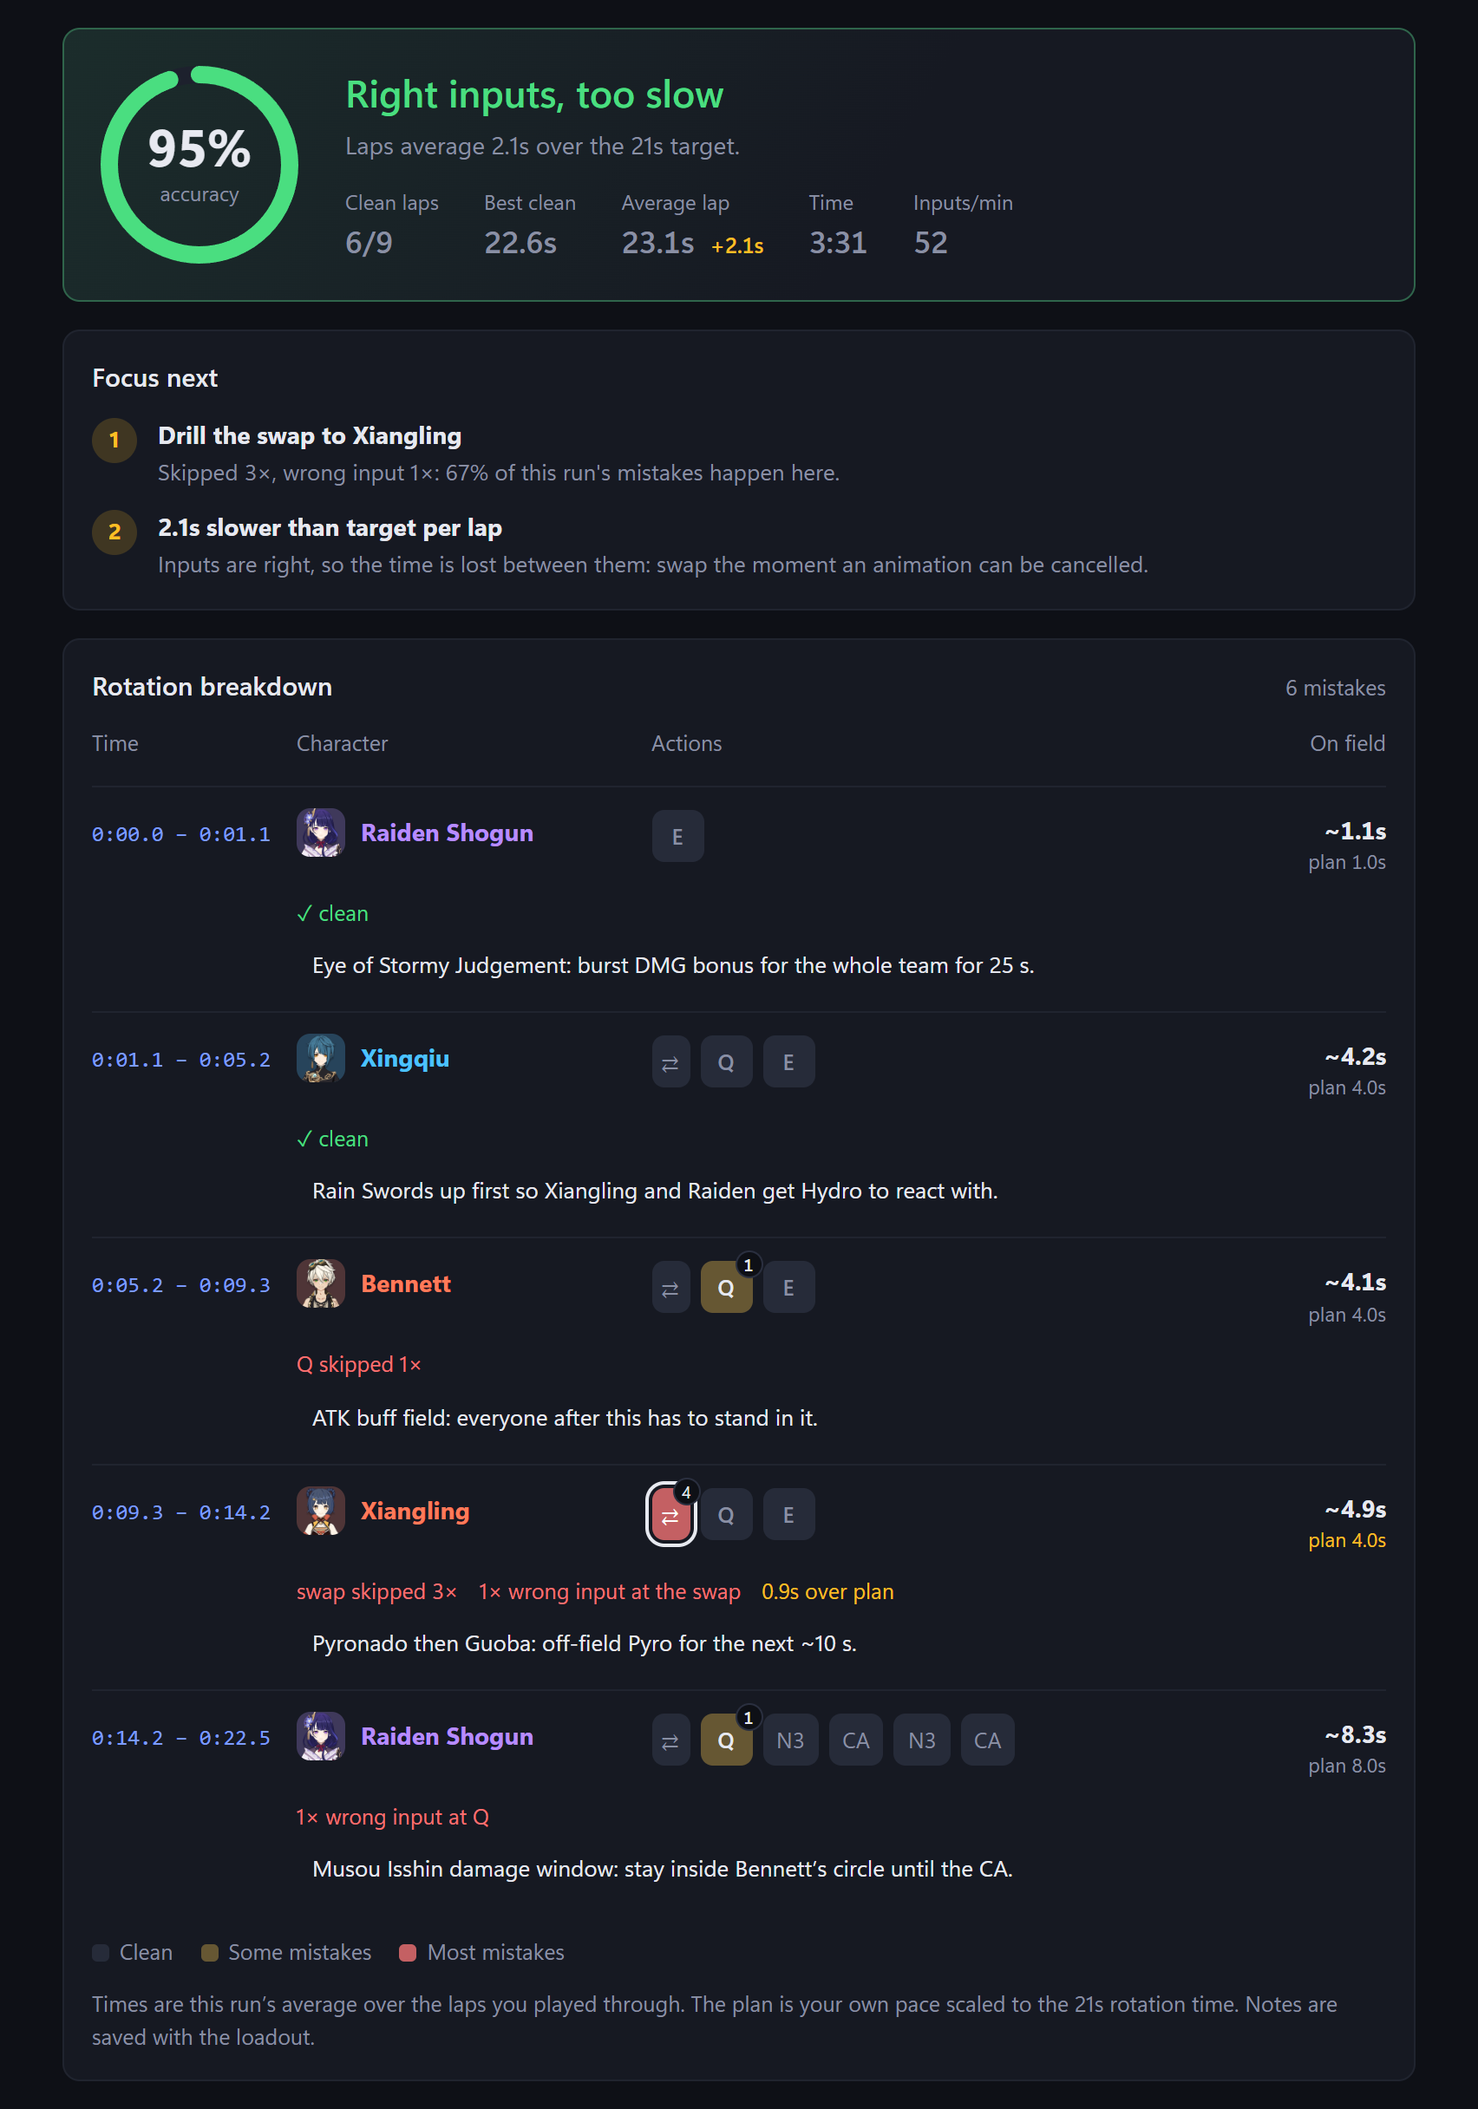
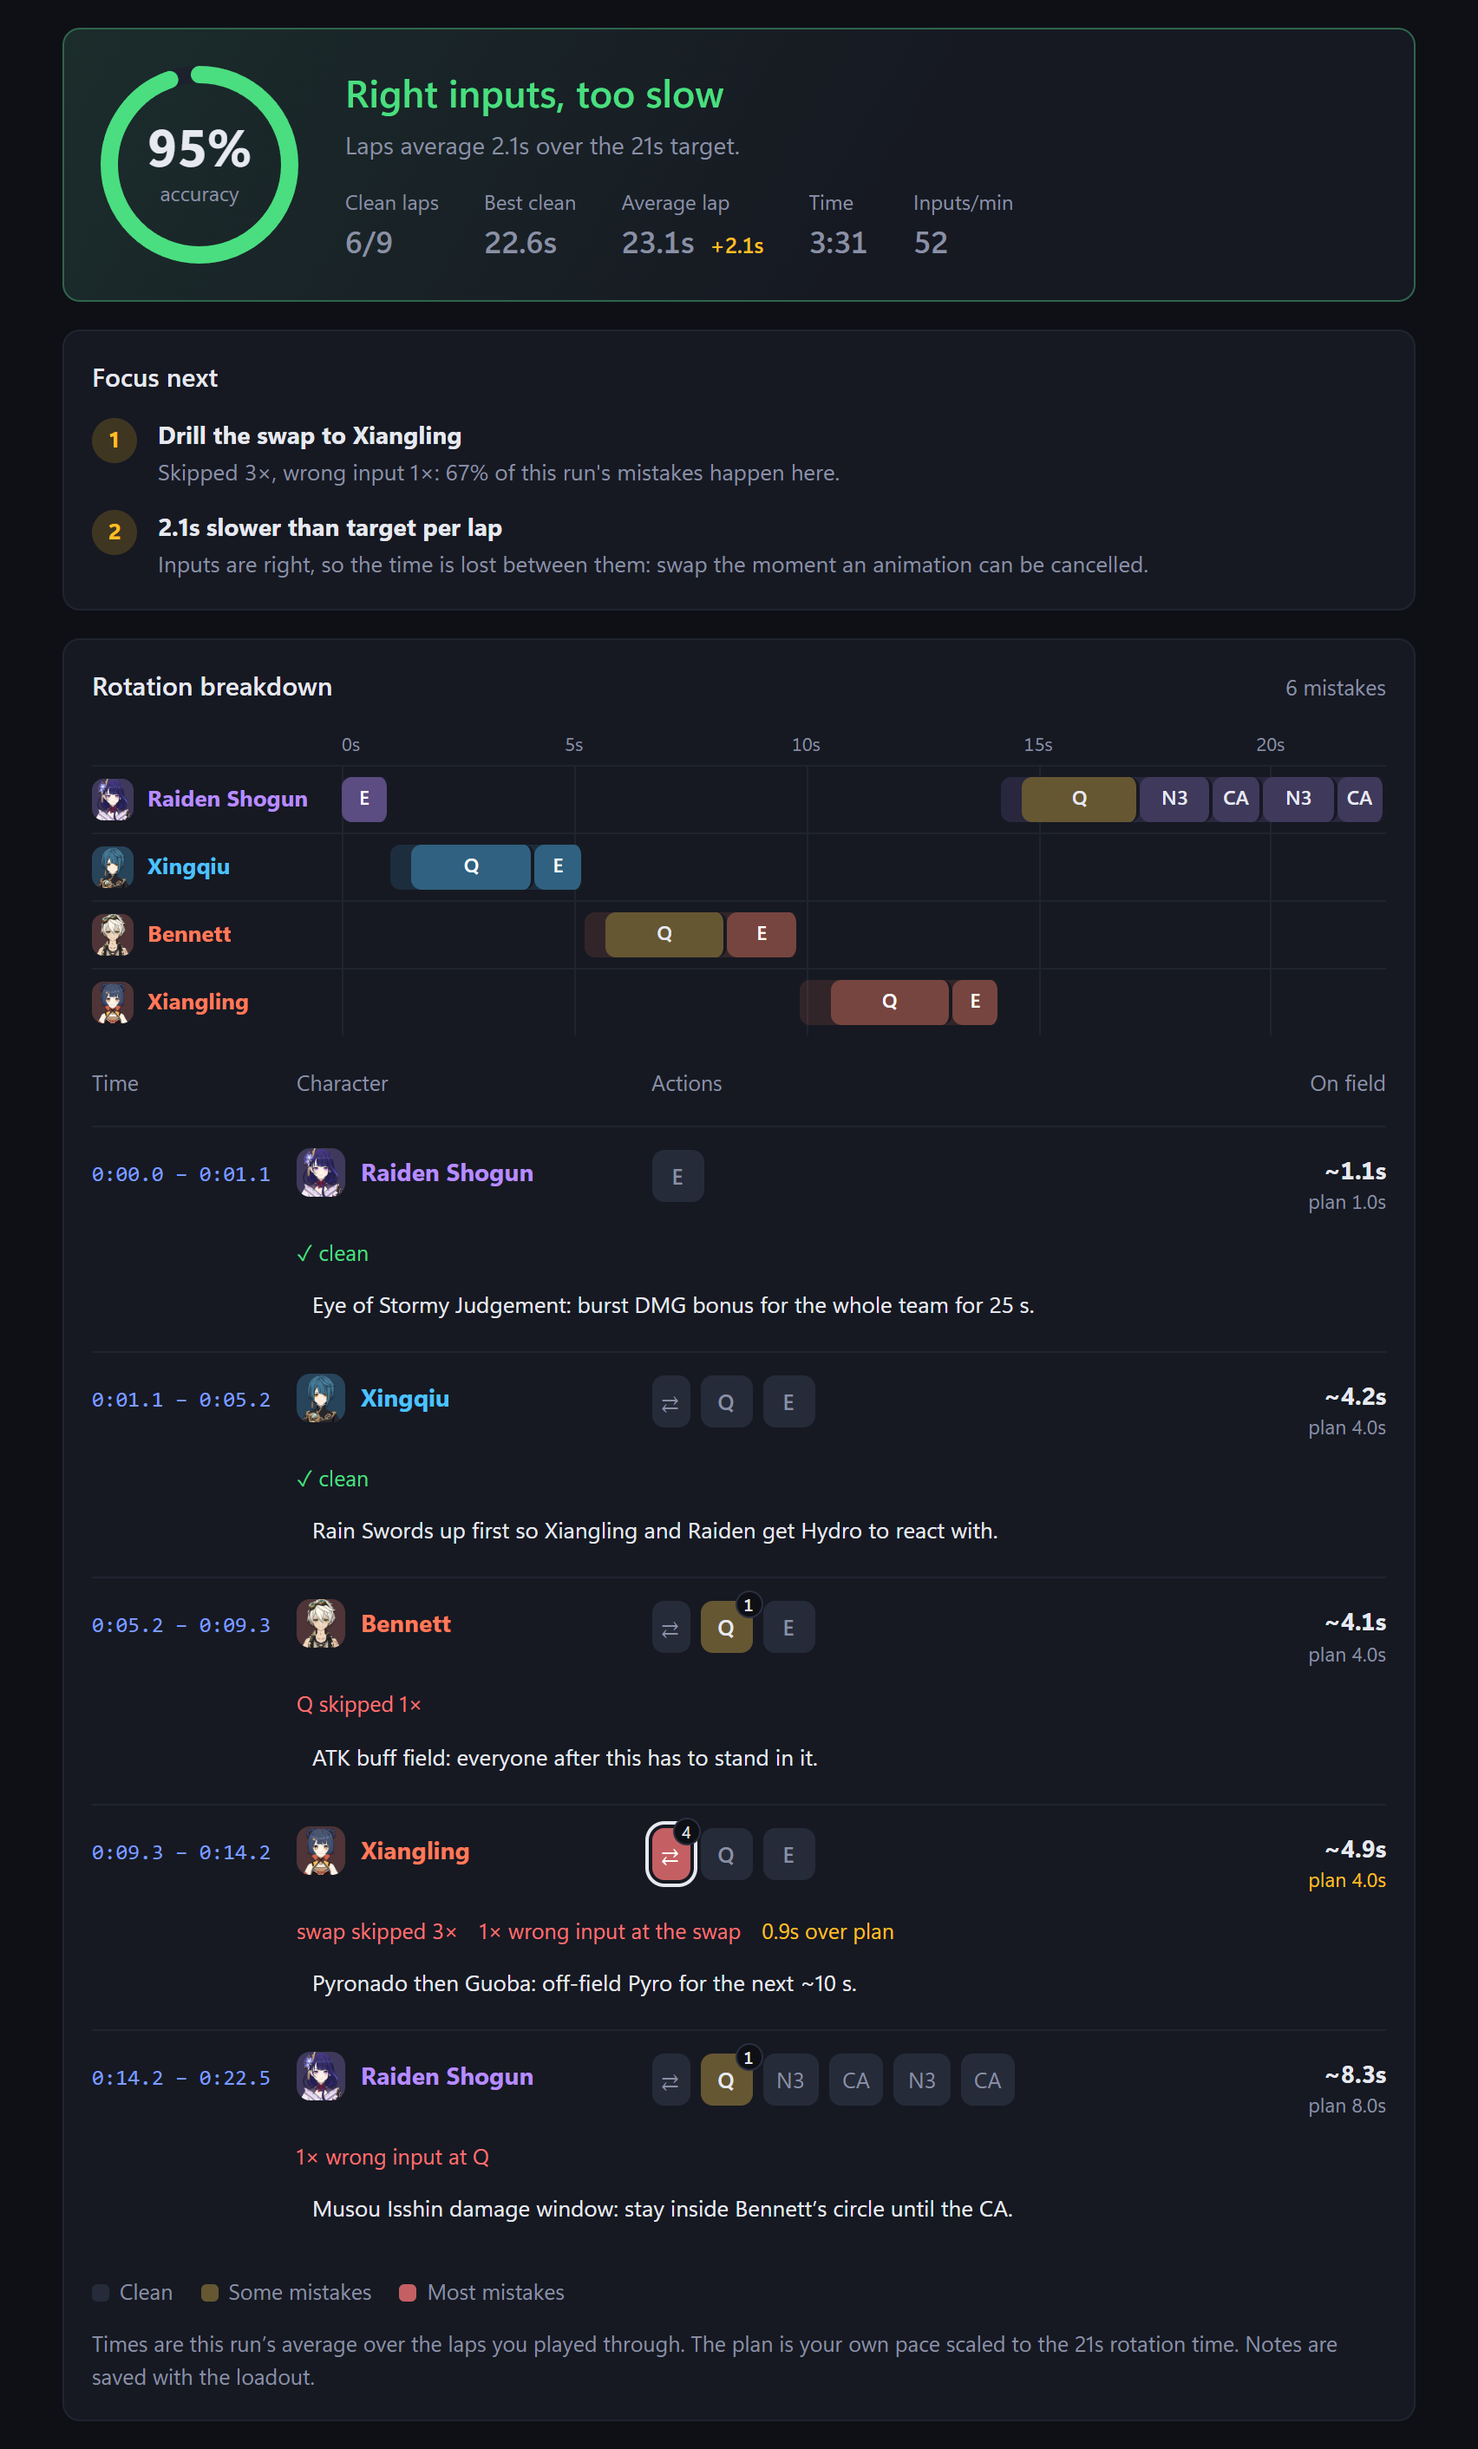
Prepare 0.1.0-beta.3 release
Bump the version, describe the rotation timeline in the README and the
release notes, and retake the recap screenshot to show it.

diff --git a/docs/release-notes.md b/docs/release-notes.md
@@ -1,9 +1,16 @@
-**Second beta.** Expect rough edges, and please report anything odd in
+**Third beta.** Expect rough edges, and please report anything odd in
 [Issues](https://github.com/Buutyful/GenshinTrainingWheels/issues).
 
-Already on beta 1? Install this over it: your loadouts, runs and settings are kept.
+Already on an earlier beta? Install this over it: your loadouts, runs and settings are kept.
 
 ## What's new
+
+- **Rotation timeline.** The run recap's breakdown now opens with a lane per character: each
+  action sits where you pressed it, as wide as it took, and is tinted by how often it went
+  wrong. Hover an action for its mistakes and timing. When the rotation has an opener, a
+  dashed line marks where the loop starts.
+
+## New in beta 2
 
 - **Ladders with friends.** Every loadout has a ladder on its Metrics page, ranked by best
   clean lap. *Share my result* gives you a code to send to friends; paste theirs with
@@ -42,7 +49,7 @@ anything, or send any input.
   move through your headphones, early enough to react to.
 - **Rhythm mode**: turns one of your clean laps into a backing track and judges each step
   against the beat, with latency calibration.
-- **Run recap**: a verdict, the three things to work on next, the turn-by-turn breakdown,
+- **Run recap**: a verdict, the three things to work on next, a per-character timeline and turn-by-turn breakdown,
   timing, laps and per-character stats. Trends over runs and a ladder per loadout.
 
 ## Known limits

diff --git a/README.md b/README.md
@@ -92,12 +92,13 @@ stops the run, **F9** restarts it.
 ### 3. See what to fix
 
 Every run ends with a recap. A verdict and the three things worth working on come first. Below
-them, the rotation is laid out **turn by turn**: when each character's turn starts and ends,
-their actions tinted by how often they went wrong, time on field against your plan, and a note
+them, a **timeline** gives each character a lane: every action sits where you pressed it, as
+wide as it took, tinted by how often it went wrong. Under it the rotation is laid out **turn by
+turn**: when each character's turn starts and ends, time on field against your plan, and a note
 you can write for each turn, such as what it buffs or what it sets up.
 
 <p align="center">
-  <img src="docs/screenshots/recap.png" alt="Run recap: 95% accuracy, 'Right inputs, too slow'; Focus next: drill the swap to Xiangling, 2.1s slower than target; rotation breakdown with times, actions, on-field time and notes per turn" width="720">
+  <img src="docs/screenshots/recap.png" alt="Run recap: 95% accuracy, 'Right inputs, too slow'; Focus next: drill the swap to Xiangling, 2.1s slower than target; a timeline with one lane per character and each action as a chip; rotation breakdown with times, actions, on-field time and notes per turn" width="720">
 </p>
 
 **Metrics** on a loadout keeps every run: lap times, accuracy and field time per character, and
